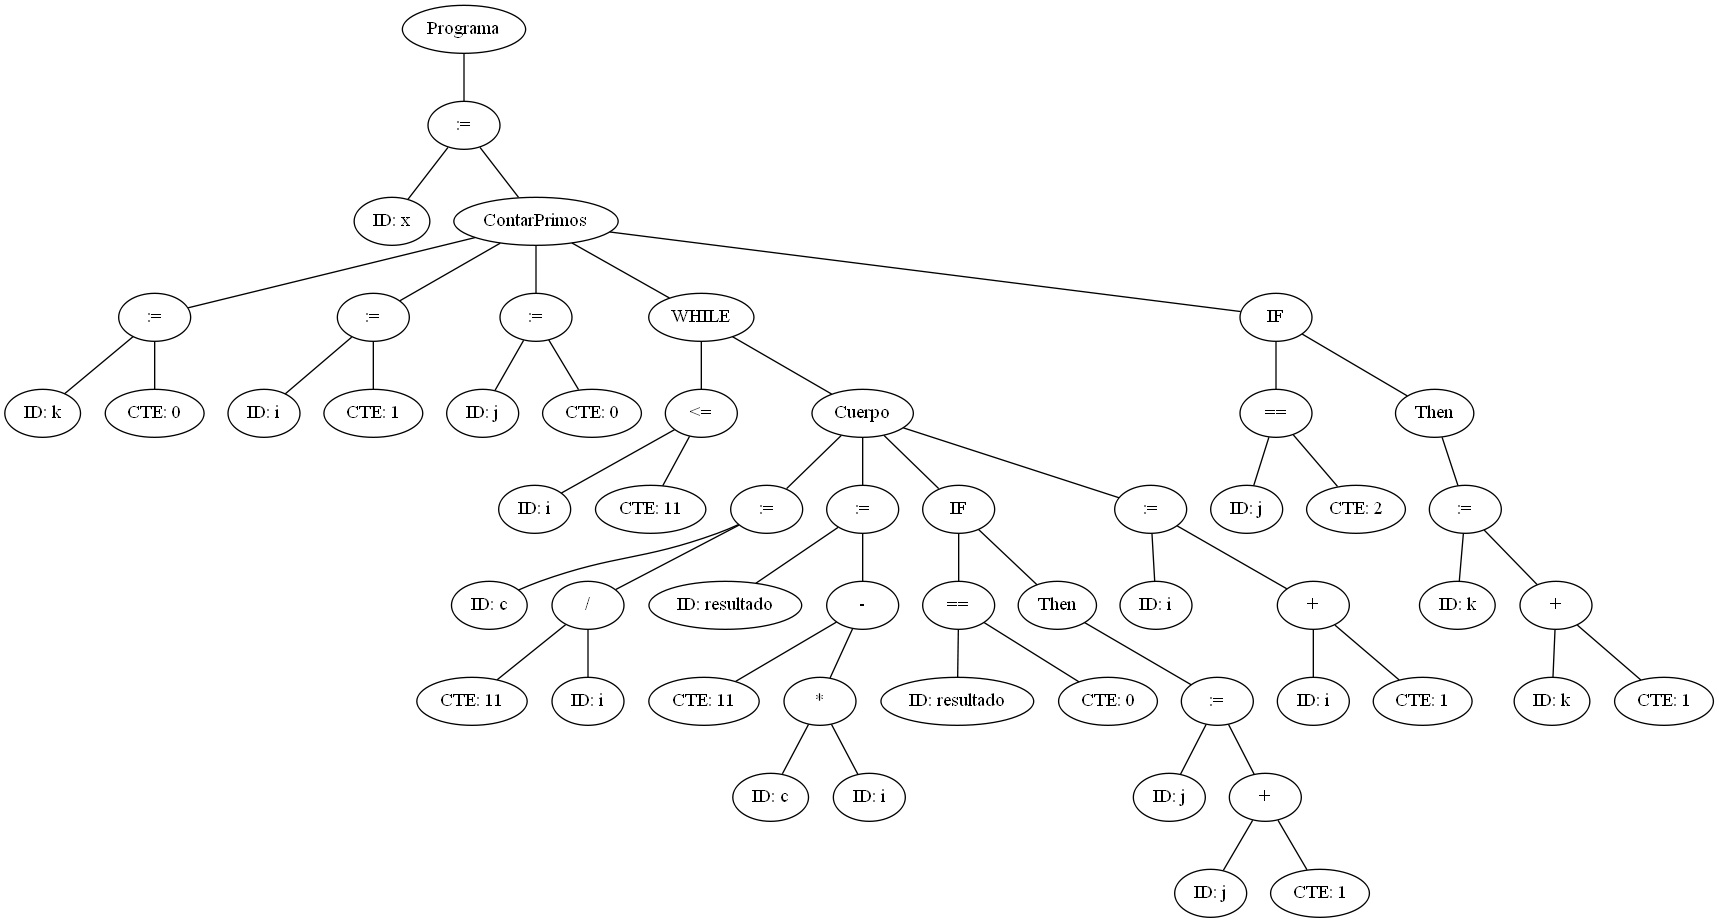
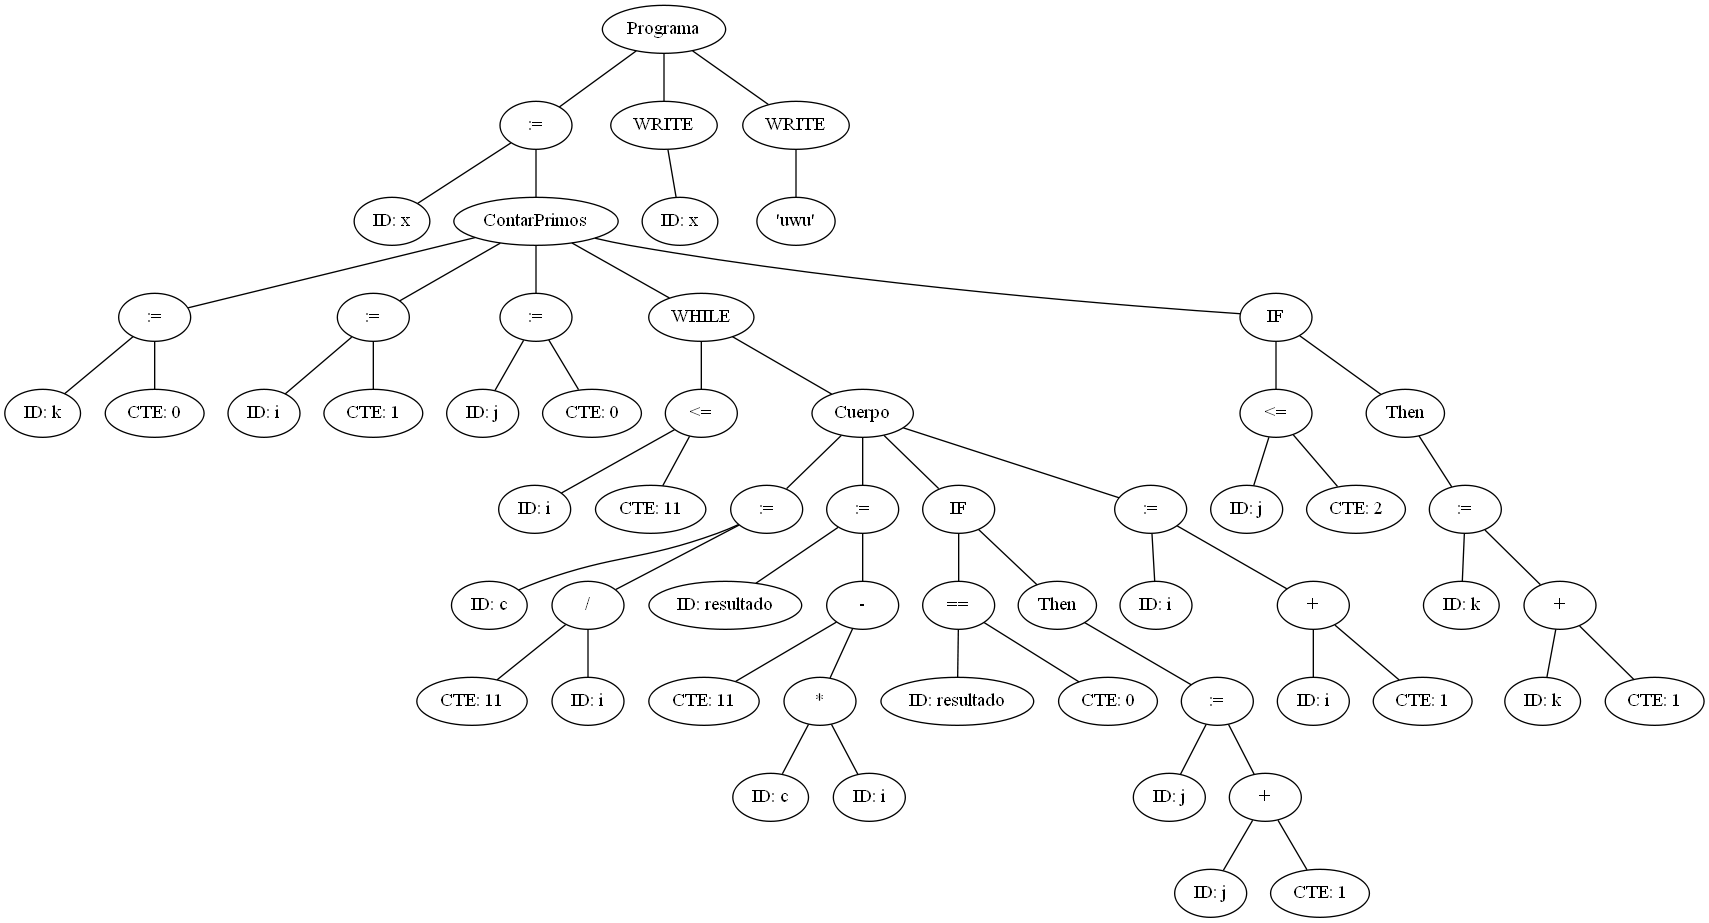
Posible solucion al problema de contar primos

diff --git a/AnalizadorLexico/src/app/parser.java b/AnalizadorLexico/src/app/parser.java
@@ -5,33 +5,12 @@
 
 package app;
 
+import assembler.ParserHelper;
+import nodos.*;
+import java_cup.runtime.*;
 import java.util.ArrayList;
 import java.util.List;
-
-import assembler.ParserHelper;
-import java_cup.runtime.Symbol;
-import nodos.NodoAnd;
-import nodos.NodoAsignacion;
-import nodos.NodoCiclo;
-import nodos.NodoComparacion;
-import nodos.NodoComparacionFactory;
-import nodos.NodoConstanteFloat;
-import nodos.NodoConstanteInteger;
-import nodos.NodoConstanteString;
-import nodos.NodoContarPrimos;
-import nodos.NodoDivision;
-import nodos.NodoExpresion;
-import nodos.NodoExpresionBooleana;
-import nodos.NodoIdentificador;
-import nodos.NodoIf;
-import nodos.NodoMultiplicacion;
-import nodos.NodoNot;
-import nodos.NodoOr;
-import nodos.NodoPrograma;
-import nodos.NodoResta;
-import nodos.NodoSentencia;
-import nodos.NodoSuma;
-import nodos.NodoWrite;
+import java_cup.runtime.XMLElement;
 
 /** CUP v0.11b 20160615 (GIT 4ac7450) generated parser.
   */
@@ -1278,7 +1257,7 @@ class CUP$parser$actions {
         ));
 
         // while (i <= expresion)
-        NodoComparacion condicionWhile = new NodoComparacion(
+        NodoComparacion condicionWhile = new NodoComparacionFactory().from(
             "<=",
             new NodoIdentificador("i"),
             expresion.clonar()
@@ -1310,7 +1289,7 @@ class CUP$parser$actions {
         cuerpoWhile.add(resultado);
 
         // if (resultado == 0)
-        NodoComparacion condicionIf = new NodoComparacion(
+        NodoComparacion condicionIf = new NodoComparacionFactory().from(
             "==",
             new NodoIdentificador("resultado"),
             new NodoConstanteInteger(0)
@@ -1341,7 +1320,7 @@ class CUP$parser$actions {
         instrucciones.add(new NodoCiclo(condicionWhile, cuerpoWhile));
 
         // if (j == 2) k = k + 1;
-        NodoComparacion condicionJ = new NodoComparacion(
+        NodoComparacion condicionJ = new NodoComparacionFactory().from(
             "==",
             new NodoIdentificador("j"),
             new NodoConstanteInteger(2)
@@ -1366,9 +1345,9 @@ class CUP$parser$actions {
     registrarVariable("k");
     registrarVariable("resultado");
 
-    registrarConstante(String.valueOf(0));
-    registrarConstante(String.valueOf(1));
-    registrarConstante(String.valueOf(2));
+    registrarConstante("0");
+    registrarConstante("1");
+    registrarConstante("2");
 
     RESULT = new NodoContarPrimos(instrucciones, new NodoIdentificador("k"));
 

diff --git a/AnalizadorLexico/src/nodos/NodoComparacionFactory.java b/AnalizadorLexico/src/nodos/NodoComparacionFactory.java
@@ -3,6 +3,7 @@ package nodos;
 public class NodoComparacionFactory {
 
 	  public NodoComparacion from(String op, NodoExpresion left, NodoExpresion right) {
+	    System.out.println(op);
 	    switch (op) {
 	      case "==": return new NodoIgual(left, right);
 	      case "<": return new NodoMenor(left, right);

diff --git a/AnalizadorLexico/src/nodos/NodoIgual.java b/AnalizadorLexico/src/nodos/NodoIgual.java
@@ -6,7 +6,7 @@ import java.util.concurrent.atomic.AtomicInteger;
 public class NodoIgual extends NodoComparacion {
 
 	  public NodoIgual(NodoExpresion left, NodoExpresion right) {
-	    super("!=", left, right);
+	    super("==", left, right);
 	    System.out.println("Nodo distinto");
 	  }
 

diff --git a/AnalizadorLexico/src/app/app.java b/AnalizadorLexico/src/app/app.java
@@ -1,14 +1,6 @@
 package app;
 
-import java.io.File;
-import java.io.FileReader;
-import java.io.FileWriter;
 import java.io.IOException;
-import java.io.PrintWriter;
-import java.util.ArrayList;
-import java.util.HashMap;
-
-import nodos.NodoPrograma;
 
 public class app {
 
